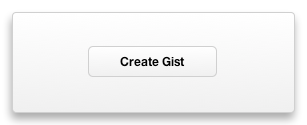
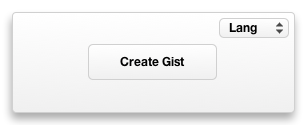
Added logout functionality

Changed region(s): [[0.7036, 0.144, 0.9674, 0.312], [0.2638, 0.6, 0.7036, 0.648], [0.2932, 0.336, 0.7036, 0.384]]

diff --git a/gist.dcproj/project/widget.wdgt/main.js b/gist.dcproj/project/widget.wdgt/main.js
@@ -78,9 +78,6 @@ var Base64 = {
 //
 
 function authorize(event) {
-    backstatus.innerText = "Working";
-    login.object.setEnabled(false);
-    
     var missing = false;
     
     if (username.value === '') {
@@ -103,6 +100,9 @@ function authorize(event) {
         return;
     }
     
+    backstatus.innerText = "Working";
+    login.object.setEnabled(false);
+    
     var header        = "Basic " + Base64.encode(username.value + ":" + password.value);
     var URL           = "https://api.github.com";
     var xmlRequest    = new XMLHttpRequest();
@@ -115,20 +115,52 @@ function authorize(event) {
             // User is unauthorized
             console.log(xmlRequest.status + ": " + xmlRequest.responseText);
 
-            backstatus.innerText = "Invalid";
+            var user = document.getElementById("user");
+            user.innerText = "";
+            
             login.object.setEnabled(true);
+            backstatus.innerText = "Invalid";
             setTimeout('backstatus.innerText \= \"\";', 4000);
         }
         else {
             // User was successfully authed, store credentials
+            console.log(xmlRequest.status + ": " + xmlRequest.responseText);
+
+            var user = document.getElementById("user");
+            user.innerText = username.value;
+
             widget.setPreferenceForKey(header, widget.identifier + "-auth");
-            backstatus.innerText = "Logged In";
+
             login.object.setEnabled(true);
+            backstatus.innerText = "Logged In";
             setTimeout('backstatus.innerText \= \"\";', 4000);
-            // Display success message
+
+            // Hide login, show logout buttons
+            logout.style.display = "inherit";
+            login.style.display = "none";
         }
     }
     xmlRequest.send();
+}
+
+function deauthorize() {
+    // Hide logout, show login buttons
+    login.style.display = "inherit";
+    logout.style.display = "none";
+    
+    username.value = '';
+    password.value = '';
+
+    // Set user text on front to blank
+    var user = document.getElementById("user");
+    user.innerText = "";
+    
+    // Delete saved auth
+    widget.setPreferenceForKey(null, widget.identifier + "-auth");
+    
+    // Display message
+    backstatus.innerText = "Logged Out";
+    setTimeout('backstatus.innerText \= \"\";', 4000);
 }
  
 //
@@ -221,7 +253,7 @@ document.body.addEventListener("offline", function () {
 function setLang(event)
 {
     var lang = language.object.getValue();
-    if (lang !== '') {
+    if (lang !== '' || lang !== 'Lang') {
         widget.setPreferenceForKey(lang, widget.identifier + "-ext");
         console.log("Extension changed to " + lang);
     }
@@ -289,6 +321,25 @@ function sync()
 //
 function showBack(event)
 {
+    var logout = document.getElementById("logout");
+    var login  = document.getElementById("login");
+
+    var username = document.getElementById("username");    
+    var password = document.getElementById("password");
+        
+    var header = widget.preferenceForKey(widget.identifier + "-auth");
+    if (typeof header == "undefined") {
+        logout.style.display = "none";
+        login.style.display = "inherit";
+        
+        username.value = '';
+        password.value = '';
+    }
+    else {
+        logout.style.display = "inherit";
+        login.style.display = "none";     
+    }
+
     unameReq.style.display = "none";
     pwordReq.style.display = "none";
     

diff --git a/gist.dcproj/project/widget.wdgt/main.html b/gist.dcproj/project/widget.wdgt/main.html
@@ -18,6 +18,7 @@
         <div id="send" apple-part="com.apple.Dashcode.part.roundedtextbutton" class="apple-no-children" apple-style="image-theme: 1; image-shape: 3; image-button-type: 0; image-opacity: 1.00; image-top-color: 1,1,1,1; image-bottom-color: 0.924825917,0.924825917,0.924825917,1; image-radius: 5,5,5,5; image-border: 1; image-border-color: 0.815217391,0.815217391,0.815217391,1; image-border-width: 1; shine-on: 0; shine-strength: 1.00; shine-alpha-level: 0.09; shine-height: 0.50; glass-arc-height: -0.14; embossed-on: 0; embossed-depth: 1; embossed-shadow: 0.68; embossed-highlight: 0.3; shadow-include-shadow: 0;"></div>
         <div id="statustext" apple-part="com.apple.Dashcode.part.text" class="apple-text apple-no-children" apple-default-image-visibility="hidden" apple-text-overflow="ellipsis" apple-style="part-height-dependent: true;"></div>
         <div id="language" apple-part="com.apple.Dashcode.part.roundedpopupbutton" class="apple-no-children" apple-style="image-theme: 1; image-shape: 3; image-button-type: 1; image-opacity: 1.00; image-top-color: 1,1,1,1; image-bottom-color: 0.924825917,0.924825917,0.924825917,1; image-radius: 5,5,5,5; image-border: 1; image-border-color: 0.815217391,0.815217391,0.815217391,1; image-border-width: 1; shine-on: 0; shine-strength: 1.00; shine-alpha-level: 0.09; shine-height: 0.50; glass-arc-height: -0.14; embossed-on: 0; embossed-depth: 1; embossed-shadow: 0.68; embossed-highlight: 0.3; shadow-include-shadow: 0;"></div>
+        <div id="user" apple-part="com.apple.Dashcode.part.text" class="apple-text apple-no-children" apple-default-image-visibility="hidden" apple-text-overflow="ellipsis"></div>
     </div>
     <div id="back">
         <img id="backImg" src="Parts/Images/back.png" alt="" apple-locked="true" apple-part="com.apple.Dashcode.part.backimage" apple-style=" image-radius: 12,12,12,12; image-border: 1; image-border-color: 0.1500,0.1500,0.1500; image-border-width: 3; shadow-include-shadow: 1; shadow-blur: 9.00; shadow-offset: -1.00,-6.00; shadow-color: 0.0000,0.0000,0.0000,0.3333;">
@@ -30,6 +31,7 @@
         <div id="unameReq" apple-part="com.apple.Dashcode.part.text" class="apple-text apple-no-children" apple-default-image-visibility="hidden" apple-text-overflow="ellipsis" apple-style="part-height-dependent: true;"></div>
         <div id="pwordReq" apple-part="com.apple.Dashcode.part.text" class="apple-text apple-no-children" apple-default-image-visibility="hidden" apple-text-overflow="ellipsis" apple-style="part-height-dependent: true;"></div>
         <div id="backstatus" apple-part="com.apple.Dashcode.part.text" class="apple-text apple-no-children" apple-default-image-visibility="hidden" apple-text-overflow="ellipsis"></div>
+        <div id="logout" apple-part="com.apple.Dashcode.part.roundedtextbutton" class="apple-no-children" apple-style="image-theme: 1; image-shape: 3; image-button-type: 0; image-opacity: 1.00; image-top-color: 1,1,1,1; image-bottom-color: 0.924825917,0.924825917,0.924825917,1; image-radius: 5,5,5,5; image-border: 1; image-border-color: 0.815217391,0.815217391,0.815217391,1; image-border-width: 1; shine-on: 0; shine-strength: 1.00; shine-alpha-level: 0.09; shine-height: 0.50; glass-arc-height: -0.14; embossed-on: 0; embossed-depth: 1; embossed-shadow: 0.68; embossed-highlight: 0.3; shadow-include-shadow: 0;"></div>
     </div>
 </body>
 </html>

diff --git a/gist.dcproj/project/widget.wdgt/Parts/setup.js b/gist.dcproj/project/widget.wdgt/Parts/setup.js
@@ -8,14 +8,16 @@ var dashcodePartSpecs = {
     "backstatus": { "view": "DC.Text" },
     "done": { "creationFunction": "CreateGlassButton", "onclick": "showFront", "text": "Done" },
     "info": { "backgroundStyle": "white", "creationFunction": "CreateInfoButton", "foregroundStyle": "black", "frontID": "front", "onclick": "showBack" },
-    "language": { "creationFunction": "CreatePopupButton", "leftImageWidth": 5, "name": "langSelect", "onchange": "setLang", "options": ["Lang", ["Ruby", ".rb"], ["Python", ".py"], ["PHP", ".php"], ["HTML", ".html"], ["JavaScript", ".js"], ["C++", ".cpp"], ["C", ".c"]], "rightImageWidth": 16 },
+    "language": { "creationFunction": "CreatePopupButton", "leftImageWidth": 5, "name": "langSelect", "onchange": "setLang", "options": ["Lang", ["Ruby", ".rb"], ["Python", ".py"], ["PHP", ".php"], ["Java", ".java"], ["HTML", ".html"], ["JavaScript", ".js"], ["C++", ".cpp"], ["C", ".c"], ["HAML", ".haml"], ["CoffeeScript", ".coffee"], ["Perl", ".pl"], ["Go", ".go"], ["C#", ".cs"], ["ERB", ".erb"], ["CSS", ".css"]], "rightImageWidth": 16 },
     "login": { "creationFunction": "CreateButton", "leftImageWidth": 5, "onclick": "authorize", "rightImageWidth": 5, "text": "Login" },
+    "logout": { "creationFunction": "CreateButton", "leftImageWidth": 5, "onclick": "deauthorize", "rightImageWidth": 5, "text": "Logout" },
     "pwordReq": { "text": "* Required", "view": "DC.Text" },
     "send": { "creationFunction": "CreateButton", "leftImageWidth": 5, "onclick": "send", "rightImageWidth": 5, "text": "Create Gist" },
     "statustext": { "view": "DC.Text" },
     "text1": { "text": "Username", "view": "DC.Text" },
     "text2": { "text": "Password", "view": "DC.Text" },
-    "unameReq": { "text": "* Required", "view": "DC.Text" }
+    "unameReq": { "text": "* Required", "view": "DC.Text" },
+    "user": { "view": "DC.Text" }
 };
 
 

diff --git a/gist.dcproj/project/widget.wdgt/main.css b/gist.dcproj/project/widget.wdgt/main.css
@@ -266,3 +266,39 @@ body {
 .selected #backstatus {
     color: white;
 }
+
+#logout {
+    font-family: HelveticaNeue-Bold;
+    font-size: 12px;
+    text-align: center;
+    cursor: default;
+    -khtml-user-select: none;
+    position: absolute;
+    right: auto;
+    margin-top: 0px;
+    top: 81px;
+    left: 101px;
+    width: 102px;
+    bottom: 21px;
+    height: auto;
+}
+
+#user {
+    font-size: 13px;
+    font-family: 'Lucida Grande', Arial, sans-serif;
+    text-overflow: ellipsis;
+    overflow: hidden;
+    position: absolute;
+    margin-top: 0px;
+    left: 23px;
+    top: 20px;
+    min-height: 16px;
+    width: 190px;
+    bottom: 89px;
+    height: auto;
+    white-space: nowrap;
+}
+
+.selected #user {
+    color: white;
+}
